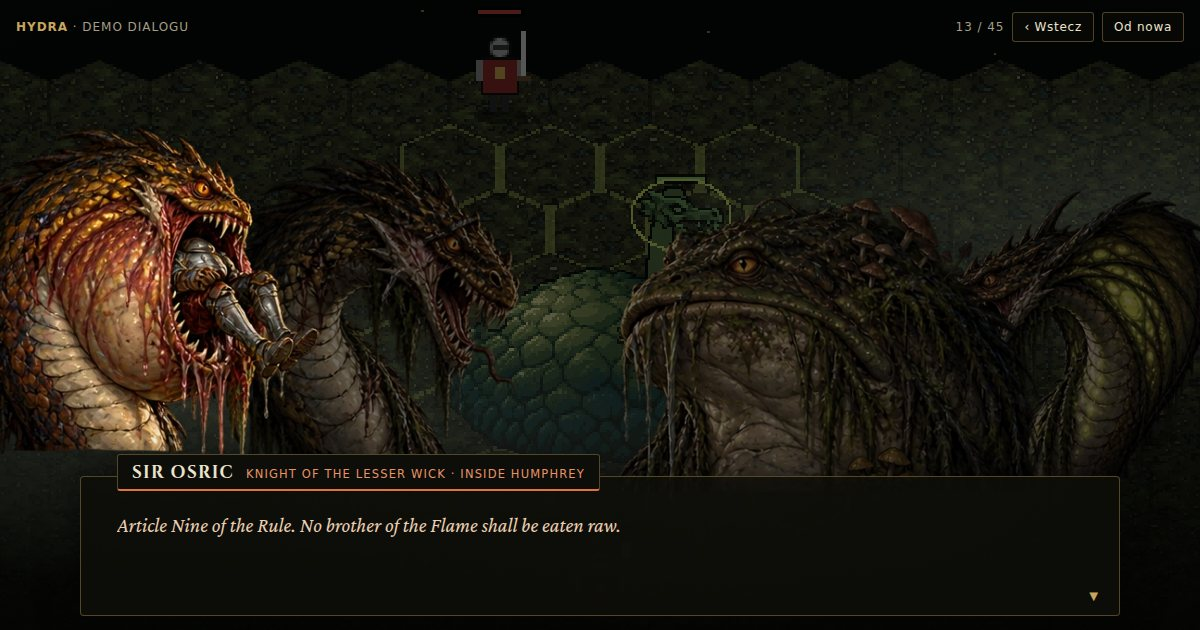
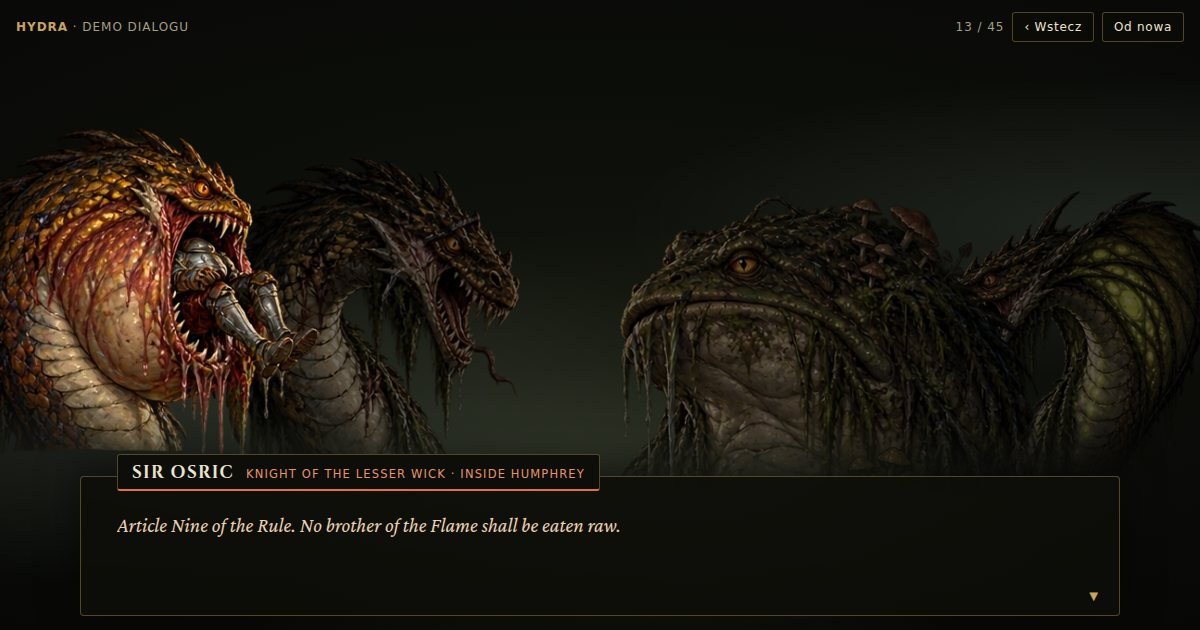
Drop the pixel arena behind the dialogue demo
Piotr found the placeholder battle screenshot ugly behind the painted
busts. The demo now stands on a dark backdrop with a dim glow, and each
bust fades out at the bottom instead of ending in a straight cut.

Claude-Session: https://claude.ai/code/session_01APiBdrF99ouqgYC5UcbgGn

diff --git a/public/dialogue-demo/index.html b/public/dialogue-demo/index.html
@@ -1,6 +1,6 @@
 <!doctype html>
 <!-- Hydra: a showcase dialogue of the nine heads, outside the game. A static page with no build step:
-     it uses the painted portraits from art/concept/portraits/ (as WebP) over a screenshot of the battle.
+     it uses the painted portraits from art/concept/portraits/ (as WebP) on a dark backdrop.
      In-game dialogues come with M5; then this page can go. -->
 <html lang="en">
 <head>
@@ -22,18 +22,17 @@
 <link rel="preconnect" href="https://fonts.gstatic.com" crossorigin>
 <link rel="stylesheet" href="https://fonts.googleapis.com/css2?family=Cinzel:wght@600;700&family=Crimson+Pro:ital,wght@0,400;0,500;1,400&display=swap">
 <style>
-/* Layout: a full-bleed game screen. The pixel arena sits dimmed at the back, painted busts rise
+/* Layout: a full-bleed dark screen with a dim glow at the back, painted busts rise
    from the bottom on both sides (left faces right, right is mirrored), and a dark speech panel
    carries the speaker's name plate on the speaker's side. One look only: the game is dark. */
 :root {
   color-scheme: dark;
-  --void: #070806;                     /* page ground, under the arena */
+  --void: #070806;                     /* page ground */
   --panel: rgba(13, 13, 9, 0.9);       /* speech panel */
   --parchment: #ece3cb;                /* spoken text */
   --parchment-dim: #a69d85;            /* narration, labels */
   --gold: #c9a45c;                     /* old gold of the scales in the key art */
   --gold-line: rgba(201, 164, 92, 0.38);
-  --shade: rgba(4, 5, 3, 0.86);
   --font-name: 'Cinzel', 'Trajan Pro', Georgia, serif;
   --font-text: 'Crimson Pro', Georgia, 'Times New Roman', serif;
   --font-ui: ui-sans-serif, system-ui, -apple-system, 'Segoe UI', sans-serif;
@@ -67,21 +66,15 @@ body {
 
 #screen { position: relative; height: 100%; overflow: hidden; cursor: pointer; user-select: none; -webkit-user-select: none; }
 
-/* the game behind the dialogue: real pixels, never smoothed */
-.backdrop { position: absolute; inset: 0; }
-.backdrop img {
-  width: 100%; height: 100%; object-fit: cover; max-width: none;
-  image-rendering: pixelated; image-rendering: crisp-edges;
-  filter: brightness(0.4) saturate(0.8);
-}
-.backdrop::after {
-  content: ""; position: absolute; inset: 0;
+/* behind the dialogue: no picture, only the dark of the swamp and a dim glow where the busts stand */
+.backdrop {
+  position: absolute; inset: 0;
   background:
-    radial-gradient(120% 90% at 50% 35%, transparent 40%, var(--shade) 100%),
-    linear-gradient(to top, var(--shade) 0%, transparent 45%);
+    radial-gradient(60% 50% at 50% 72%, rgba(70, 78, 50, 0.32) 0%, transparent 72%),
+    radial-gradient(130% 100% at 50% 45%, #10120c 0%, var(--void) 70%);
 }
 
-/* a little swamp haze drifting over the arena */
+/* a little swamp haze drifting in the dark */
 .haze { position: absolute; inset: -20% -40%; pointer-events: none; opacity: 0.16; }
 .haze-a { background: radial-gradient(40% 30% at 30% 60%, #9fb3a2 0%, transparent 70%), radial-gradient(35% 25% at 75% 40%, #8fa597 0%, transparent 70%); animation: drift 70s linear infinite alternate; }
 .haze-b { background: radial-gradient(30% 22% at 55% 70%, #b4c2ae 0%, transparent 70%); opacity: 0.1; animation: drift 90s linear infinite alternate-reverse; }
@@ -98,7 +91,12 @@ body {
   filter: brightness(0.42) saturate(0.7);
 }
 .actor .pose { height: 100%; }
-.actor img { height: 100%; width: auto; max-width: none; display: block; }
+.actor img {
+  height: 100%; width: auto; max-width: none; display: block;
+  /* the busts are cut straight at the bottom: let them sink into the dark instead */
+  -webkit-mask-image: linear-gradient(to bottom, #000 72%, transparent 100%);
+  mask-image: linear-gradient(to bottom, #000 72%, transparent 100%);
+}
 .actor.flip img { transform: scaleX(-1); }
 .actor.at-L1 { left: var(--l1); opacity: 1; z-index: 3; }
 .actor.at-L2 { left: var(--l2); opacity: 1; z-index: 2; }
@@ -198,7 +196,7 @@ body {
 </head>
 <body>
 <main id="screen" aria-label="Hydra dialogue demo. Tap or press Space to continue.">
-  <div class="backdrop"><img src="bg/arena.png" alt=""></div>
+  <div class="backdrop"></div>
   <div class="haze haze-a"></div>
   <div class="haze haze-b"></div>
   <div id="cast"></div>
